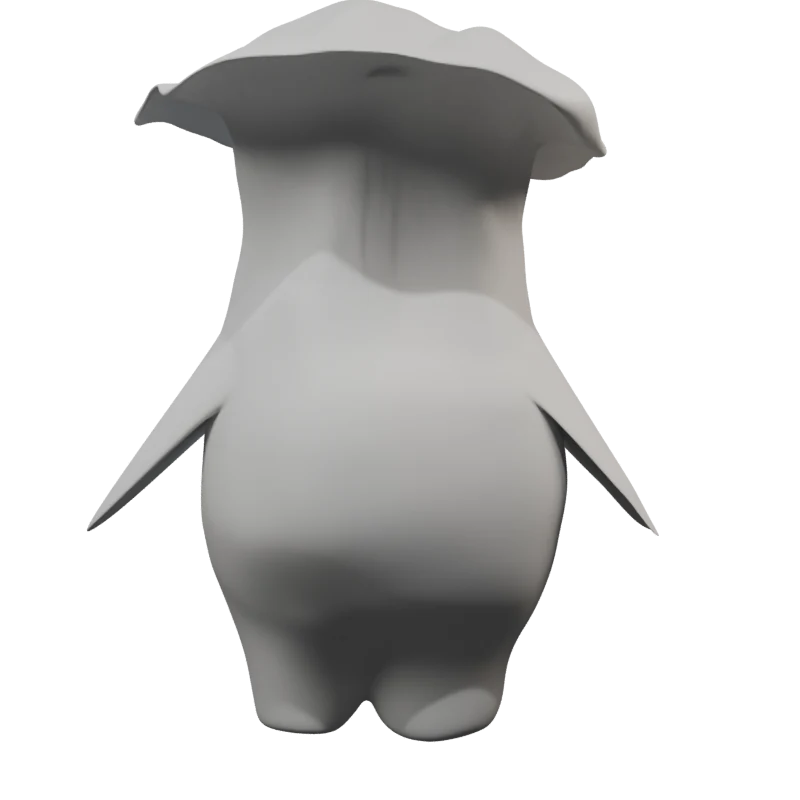
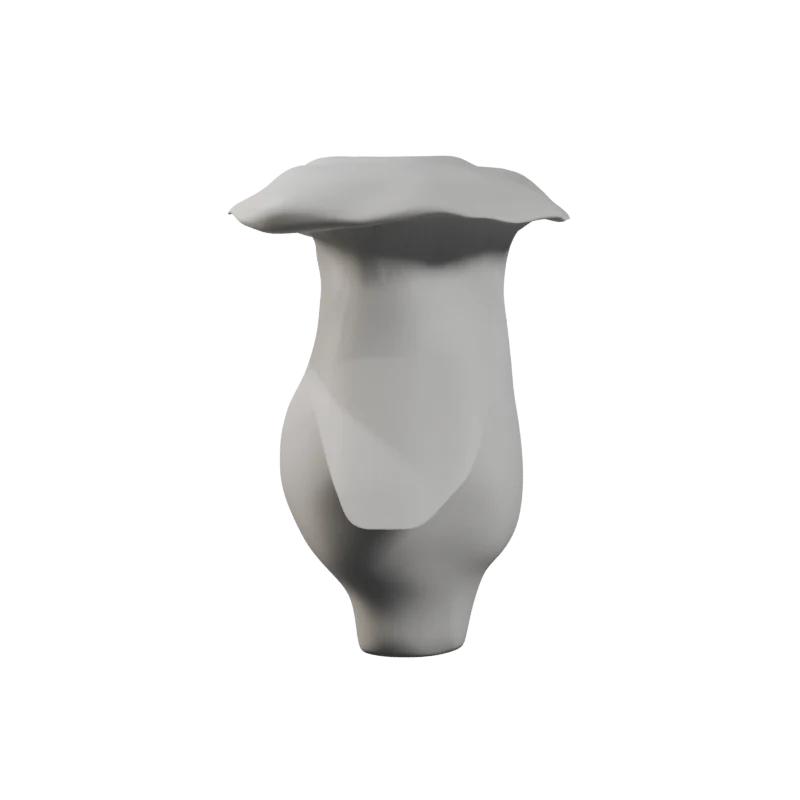
fix(3d): adjust camera distance for portfolio thumbnails to provide comfortable framing without cropping

Changed region(s): [[0.0938, 0.0, 0.8125, 0.9375]]

diff --git a/scripts/blend_pipeline.py b/scripts/blend_pipeline.py
@@ -296,30 +296,30 @@ energy_scale = max(1.0, (dim / 2.0) ** 2)
 
 # Key Light
 key_data = bpy.data.lights.new(name="StudioKey", type='AREA')
-key_data.energy = 220 * energy_scale
-key_data.size = dim * 0.7
+key_data.energy = 320 * energy_scale
+key_data.size = dim * 1.0
 key_data.color = (1.0, 0.98, 0.94)
 key_obj = bpy.data.objects.new(name="StudioKey", object_data=key_data)
 scene.collection.objects.link(key_obj)
-key_obj.location = target + fwd * (dim * 1.2) + right * (dim * 1.0) + up * (dim * 0.8)
+key_obj.location = target + fwd * (dim * 1.8) + right * (dim * 1.4) + up * (dim * 1.2)
 
 # Fill Light
 fill_data = bpy.data.lights.new(name="StudioFill", type='AREA')
-fill_data.energy = 90 * energy_scale
-fill_data.size = dim * 0.9
+fill_data.energy = 140 * energy_scale
+fill_data.size = dim * 1.2
 fill_data.color = (0.8, 0.88, 1.0)
 fill_obj = bpy.data.objects.new(name="StudioFill", object_data=fill_data)
 scene.collection.objects.link(fill_obj)
-fill_obj.location = target + fwd * (dim * 0.8) - right * (dim * 1.2) + up * (dim * 0.4)
+fill_obj.location = target + fwd * (dim * 1.2) - right * (dim * 1.8) + up * (dim * 0.6)
 
 # Rim Light
 rim_data = bpy.data.lights.new(name="StudioRim", type='AREA')
-rim_data.energy = 180 * energy_scale
-rim_data.size = dim * 0.6
+rim_data.energy = 260 * energy_scale
+rim_data.size = dim * 0.9
 rim_data.color = (1.0, 0.88, 0.75) if status == "wip" else (0.9, 0.95, 1.0)
 rim_obj = bpy.data.objects.new(name="StudioRim", object_data=rim_data)
 scene.collection.objects.link(rim_obj)
-rim_obj.location = target - fwd * (dim * 1.2) + up * (dim * 0.6)
+rim_obj.location = target - fwd * (dim * 1.8) + up * (dim * 0.9)
 
 # Camera
 cam_data = bpy.data.cameras.new(name="StudioCamera")
@@ -333,13 +333,13 @@ def point_camera(cam, loc, cam_target):
     direction = cam_target - cam.location
     cam.rotation_euler = direction.to_track_quat('-Z', 'Y').to_euler()
 
-# Render Angles
+# Render Angles with comfortable portfolio margins (never cropped or suffocated)
 detail_target = target + up * (dim * 0.22)
 angles = [
-    ("perspective", target + fwd * (dim * 1.35) + right * (dim * 1.0) + up * (dim * 0.45), target),
-    ("front", target + fwd * (dim * 1.6) + up * (dim * 0.05), target),
-    ("side", target + right * (dim * 1.6) + up * (dim * 0.05), target),
-    ("detail", detail_target + fwd * (dim * 0.65) + right * (dim * 0.45) + up * (dim * 0.15), detail_target),
+    ("perspective", target + fwd * (dim * 1.85) + right * (dim * 1.45) + up * (dim * 0.6), target),
+    ("front", target + fwd * (dim * 2.3) + up * (dim * 0.05), target),
+    ("side", target + right * (dim * 2.3) + up * (dim * 0.05), target),
+    ("detail", detail_target + fwd * (dim * 0.95) + right * (dim * 0.65) + up * (dim * 0.22), detail_target),
 ]
 
 for angle_name, cam_loc, cam_target in angles:
